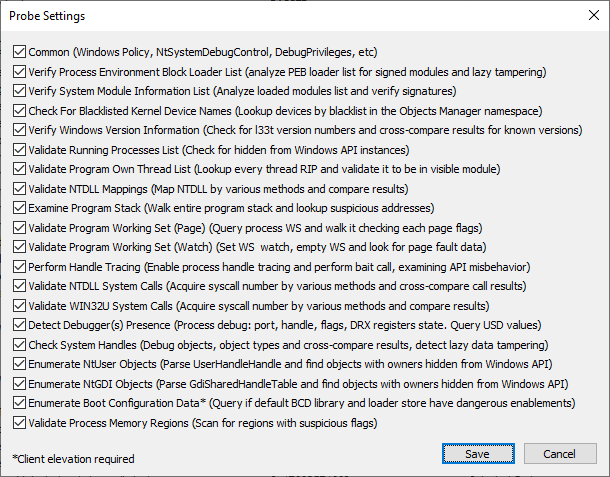
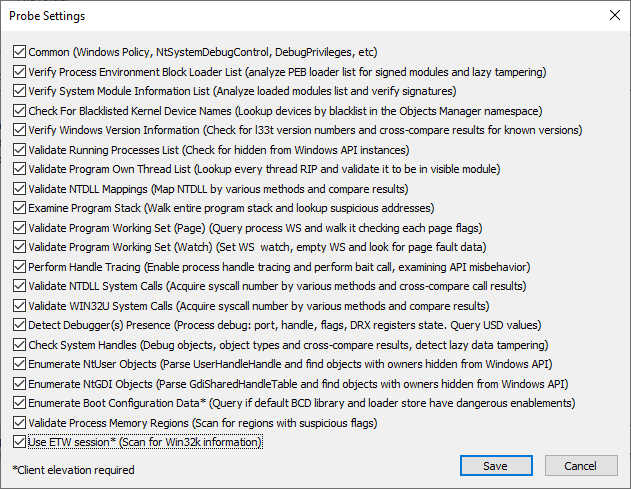
Update screenshot and readme
Add note about new capabilities

diff --git a/README.md b/README.md
@@ -30,8 +30,8 @@ Windows 11 preview/developer builds WARNING: since this program relies on comple
 
 * Common set of tests
   * Presence of Windows policy allowing custom kernel signers
-  * Detection of Windows kernel debugger by NtSystemDebugControl behavior.
-  * Check for unnecessary process privileges enablement  
+  * Detection of Windows kernel debugger by NtSystemDebugControl behavior
+  * Check for unnecessary process privileges enablement
 * Process Environment Block (PEB) Loader entries verification
   * Must be all authenticode signed, have valid names
 * Loaded Kernel Modules verification
@@ -43,8 +43,11 @@ Windows 11 preview/developer builds WARNING: since this program relies on comple
   * Detect l33t and other BS changes
   * Cross-compare version information from several system modules that are in KnownDlls
   * Cross-compare version information from PEB with data obtained through WMI
+  * Cross-compare PEB build number with ntdll cached version data
+  * Cross-compare reported build number with the kernel NtBuildNumber export (enablement-package family aware)
   * Validate system call (syscall) layout for PEB version
   * Validate system build number acceptable range
+  * Validate build number against the reported major/minor version and product SKU (client/server)
 * Running Processes
   * Check if process name is in blacklist
   * Cross-compare Native API query result with WMI data to detect processes hidden from the client
@@ -52,7 +55,7 @@ Windows 11 preview/developer builds WARNING: since this program relies on comple
   * Check client against console host information
   * Application Compatibility (AppCompat) parent information
 * Client Threads
-  * Verify that client threads' instruction pointers belong to visible modules 
+  * Verify that client threads' instruction pointers belong to visible modules
 * NTDLL mapping validation
   * Map NTDLL using several methods and cross-compare results
 * Examine program stack
@@ -80,7 +83,14 @@ Windows 11 preview/developer builds WARNING: since this program relies on comple
 * Enumerate NtUser objects
   * Walk UserHandleTable to find objects whose owners are invisible to client API calls
 * Enumerate NtGdi objects
-  * Walk GdiSharedHandleTable to find objects whose owners are invisible to client API calls 
+  * Walk GdiSharedHandleTable to find objects whose owners are invisible to client API calls
+* Win32k ETW cross-verification (requires client elevation on Windows 11 26H2+)
+  * Start a private real-time ETW session for the Microsoft-Windows-Win32k provider
+  * Generate Win32k activity with a system-wide WM_NULL broadcast
+  * Collect PID/TID references from event headers and event payload properties
+  * Detect processes referenced by Win32k but invisible to client process enumeration
+  * Detect threads referenced by Win32k that are not owned by any client-visible process
+  * Confirm unlisted entities via direct kernel calls (NtOpenProcess/NtOpenThread) to filter out transient processes/threads
 * Enumerate Boot Configuration Data (That one requires client elevation)
   * Search for option enablements: TestMode, WinPEMode, DisableIntegrityChecks, KernelDebugger
 * Scan process memory regions
